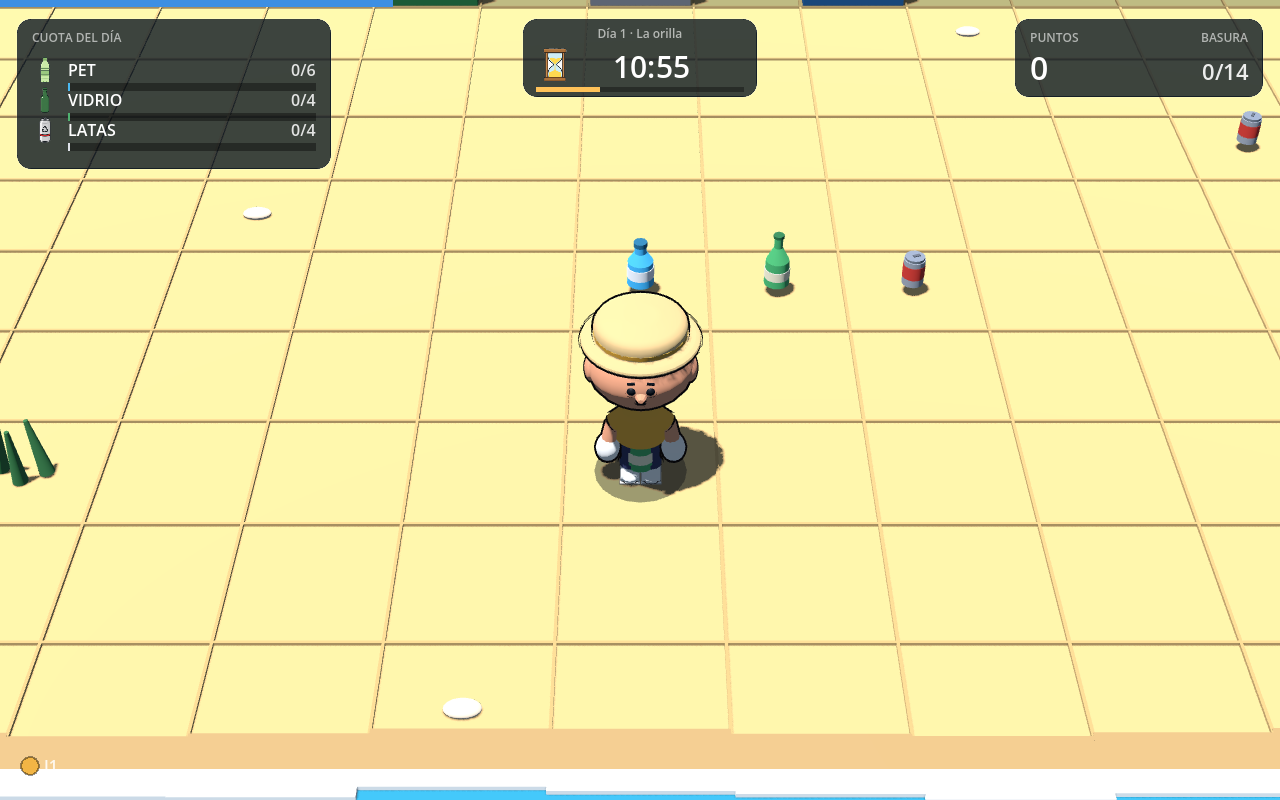
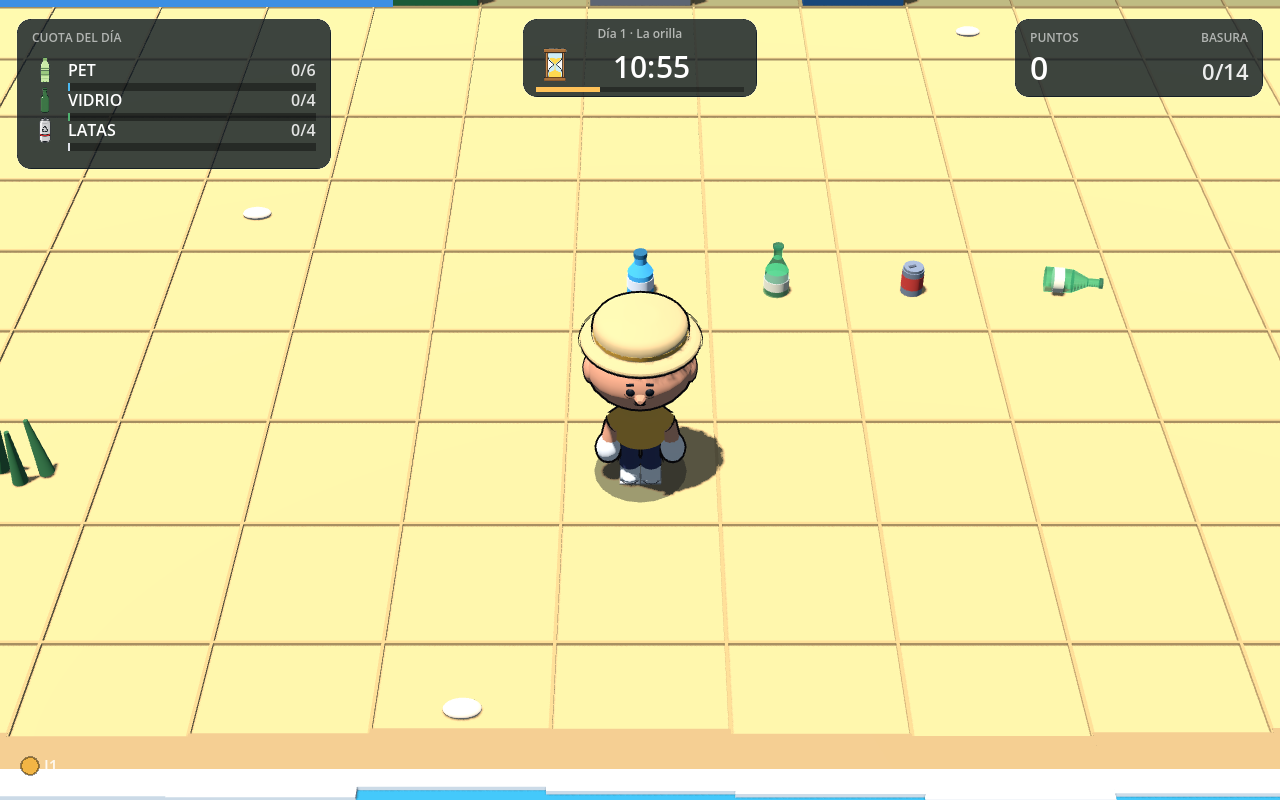
Basura pateable, materiales de vidrio/metal y agarre en las manos
Física:
- Cada residuo es un RigidBody3D con cápsula: cae al aparecer (0.55 m,
  inclinado y girando), queda acostado y se puede patear. El jugador no
  lo choca: lo empuja.
- Piso físico en el mundo (el jugador sigue clavado a y=0).
- En la mano o en el pico de la gaviota el cuerpo se congela y pierde
  colisión; al lanzarlo vuela congelado y al aterrizar recupera física.
- La celda lógica sigue al cuerpo: una botella pateada se levanta donde
  está, no donde apareció.

Materiales:
- Vidrio translúcido (alfa 0.6, rugosidad 0.05, borde iluminado).
- Metal satinado (metallic 0.7): con metallic 1 la lata salía azul oscura
  porque todo el color venía del reflejo del cielo.
- PET queda plástico opaco con etiqueta blanca.

Agarre:
- El punto de carga pasa a estar entre los dos guantes de la pose de
  cargar (±0.09, 0.39, 0.28 medidos en el modelo): los objetos ya no
  aparecen flotando al lado de las manos.

68 comprobaciones headless (6 nuevas de física: cuerpo rígido, caída,
queda acostada, no se hunde, se patea, se congela en la mano).

diff --git a/README.md b/README.md
@@ -49,6 +49,10 @@ del atardecer:
 3. Cuando la bolsa tiene **4 residuos** se marca llena: **retirala** y llevala.
 4. **Entregala en el camión**: cada residuo suma a su barra de la cuota.
 
+La basura es **física**: cae al aparecer, queda acostada y se puede **patear**.
+
+![basura pateada](docs/captura-patear.png)
+
 ![residuos](docs/captura-items.png)
 
 Las **gaviotas** se llevan la basura que dejás tirada (con un jugador
@@ -82,7 +86,7 @@ scripts/model_viewer.gd  visor standalone del asset
 tools/gen_chef.py        generador del personaje (Blender headless -> GLB)
 tools/render_views.py    4 vistas ortográficas + 3/4 para comparar
 tools/ref_metrics.py     mide una lámina de referencia y el render propio
-tests/headless_test.gd   62 comprobaciones de reglas (headless)
+tests/headless_test.gd   68 comprobaciones de reglas (headless)
 tests/shot.gd            capturas automáticas para verificación visual
 docs/                    diseño, plan, mecánicas y comparaciones
 ```
@@ -127,11 +131,12 @@ godot --headless --path . --import
 godot --headless --path . -- --test
 ```
 
-**62 comprobaciones** sobre las mismas funciones que usa el input real: reloj y
+**68 comprobaciones** sobre las mismas funciones que usa el input real: reloj y
 cuota, basura que aparece, colgar / sacar la bolsa del contenedor, tirar basura
 (tipo correcto y equivocado), entrega en el camión, fin de día (ganar y perder),
 gaviotas (incluido que aparezcan más espaciadas con un solo jugador),
-colisiones (contenedor, bolsa en el piso, muro, mar), rig y animación.
+colisiones (contenedor, bolsa en el piso, muro, mar), física de la basura
+(cae acostada, se patea, se congela en la mano), rig y animación.
 Sale con código 0 solo si pasa todo.
 
 Capturas (necesita display; funciona con Xvfb):
@@ -141,6 +146,7 @@ xvfb-run -a godot --path . -- --shot=/tmp/pl.png --demo2
 ```
 
 Modos: `--demo`, `--demo2` (co-op), `--items` (los tres residuos de cerca),
+`--kick` (basura pateada),
 `--shore` (orilla), `--closeup` (contenedores con bolsa), `--menu`, `--results`,
 `--win`, `--facing`, `--carry`.
 

diff --git a/docs/MECANICAS.md b/docs/MECANICAS.md
@@ -59,6 +59,19 @@ embolsa no hay manos para cubrir la playa, y con el ritmo anterior ganarle a una
 gaviota era cuestión de suerte. Con dos, uno embolsa cerca del contenedor y el
 otro barre la arena, así que la presión puede ser mayor.
 
+## Física de la basura
+
+- Cada residuo es un **cuerpo rígido** (cápsula): se puede **patear**, rueda y
+  se acomoda. El jugador no lo choca (no frena el paso): lo empuja.
+- Al aparecer **cae desde 0.55 m**, inclinado y girando, así que queda acostado:
+  la basura no aparece plantada como una vela.
+- En la mano se **congela** y pierde colisión (si no, empujaría al jugador y se
+  caería sola). Lo mismo cuando la gaviota se la lleva.
+- El jugador lleva lo que tiene **en las manos**, entre los dos guantes (pose de
+  cargar), no flotando al costado.
+- La celda lógica sigue al cuerpo: si una botella rueda dos celdas, se levanta
+  donde está, no donde apareció.
+
 ## Colisiones
 
 - Todas las celdas sólidas llevan una **pared invisible de 2 m**: con la altura
@@ -77,6 +90,8 @@ silueta:
 - **Botella PET**: cuerpo ancho, etiqueta blanca y tapa azul oscura.
 - **Botella de vidrio**: verde, cuello largo y etiqueta crema.
 - **Lata**: metal con banda roja y anilla en la tapa.
+- **Materiales**: el vidrio es translúcido (alfa + borde iluminado), el metal es
+  satinado (metallic 0.7 con rugosidad baja) y el PET es plástico opaco.
 - **Bolsa colgada**: va **expandida como forro**. El plástico cubre el marco de
   la boca, cuelga por fuera del contenedor y la basura asoma desde adentro. En
   la mano es una bolsa chica atada, que se lleva al costado para no tapar al

diff --git a/docs/PLAN-v2.md b/docs/PLAN-v2.md
@@ -40,6 +40,13 @@ Decisiones que se resolvieron al implementar (no estaban en el plan):
   al costado: al pecho tapaba al personaje entero.
 - **La gaviota depende de cuántos jugadores hay** (55 s / cada 50 s solo;
   30 s / cada 34 s de a dos): con un jugador era imposible cubrir la playa.
+- **La basura es un cuerpo rígido** (cápsula) con piso físico propio: cae desde
+  0.55 m al aparecer, queda acostada y se puede patear. En la mano o en el pico
+  de la gaviota se congela.
+- **Materiales**: vidrio translúcido (alfa + rim), metal satinado (0.7) y PET
+  opaco. Con metallic 1 la lata quedaba azul oscura por el reflejo del cielo.
+- **El ítem va entre las manos** (pose de cargar), no al costado: era el bug de
+  "aparecen al lado de las manos".
 
 ## Fase 2 — Presión
 
